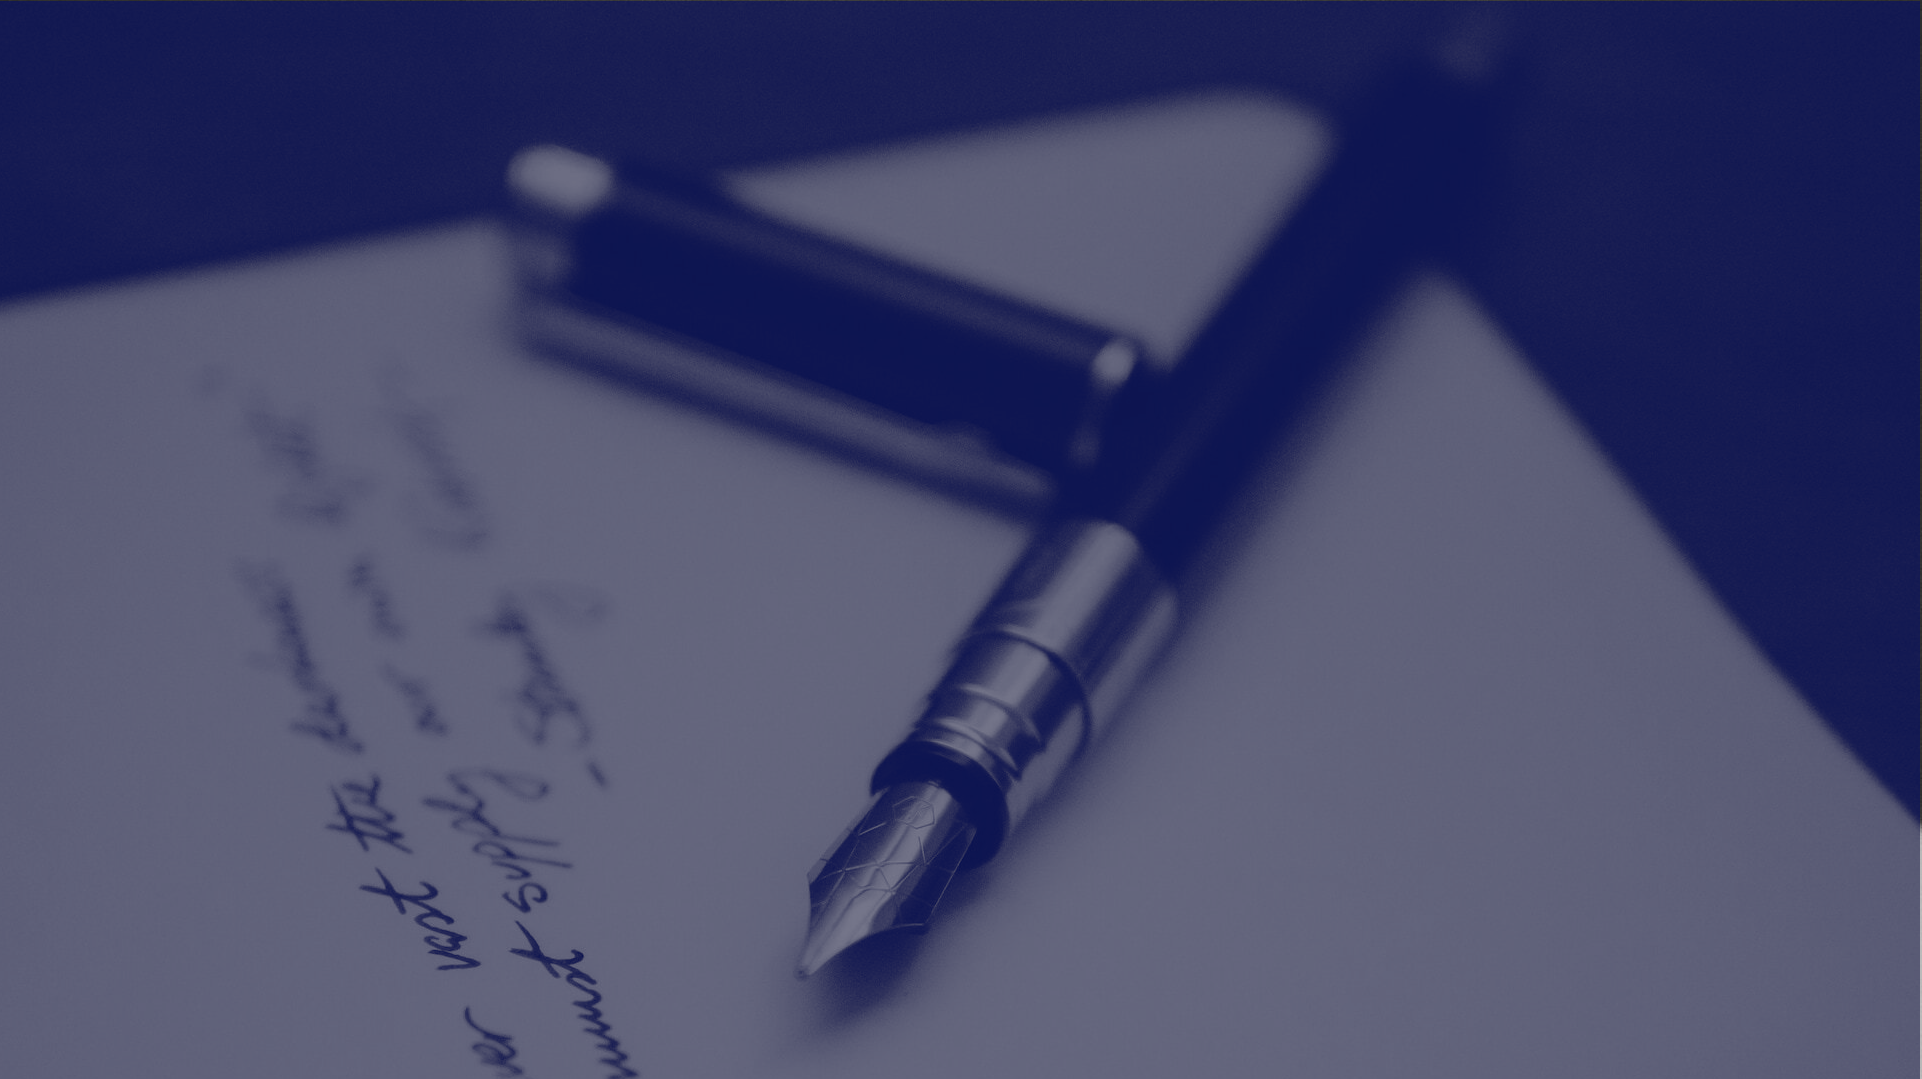
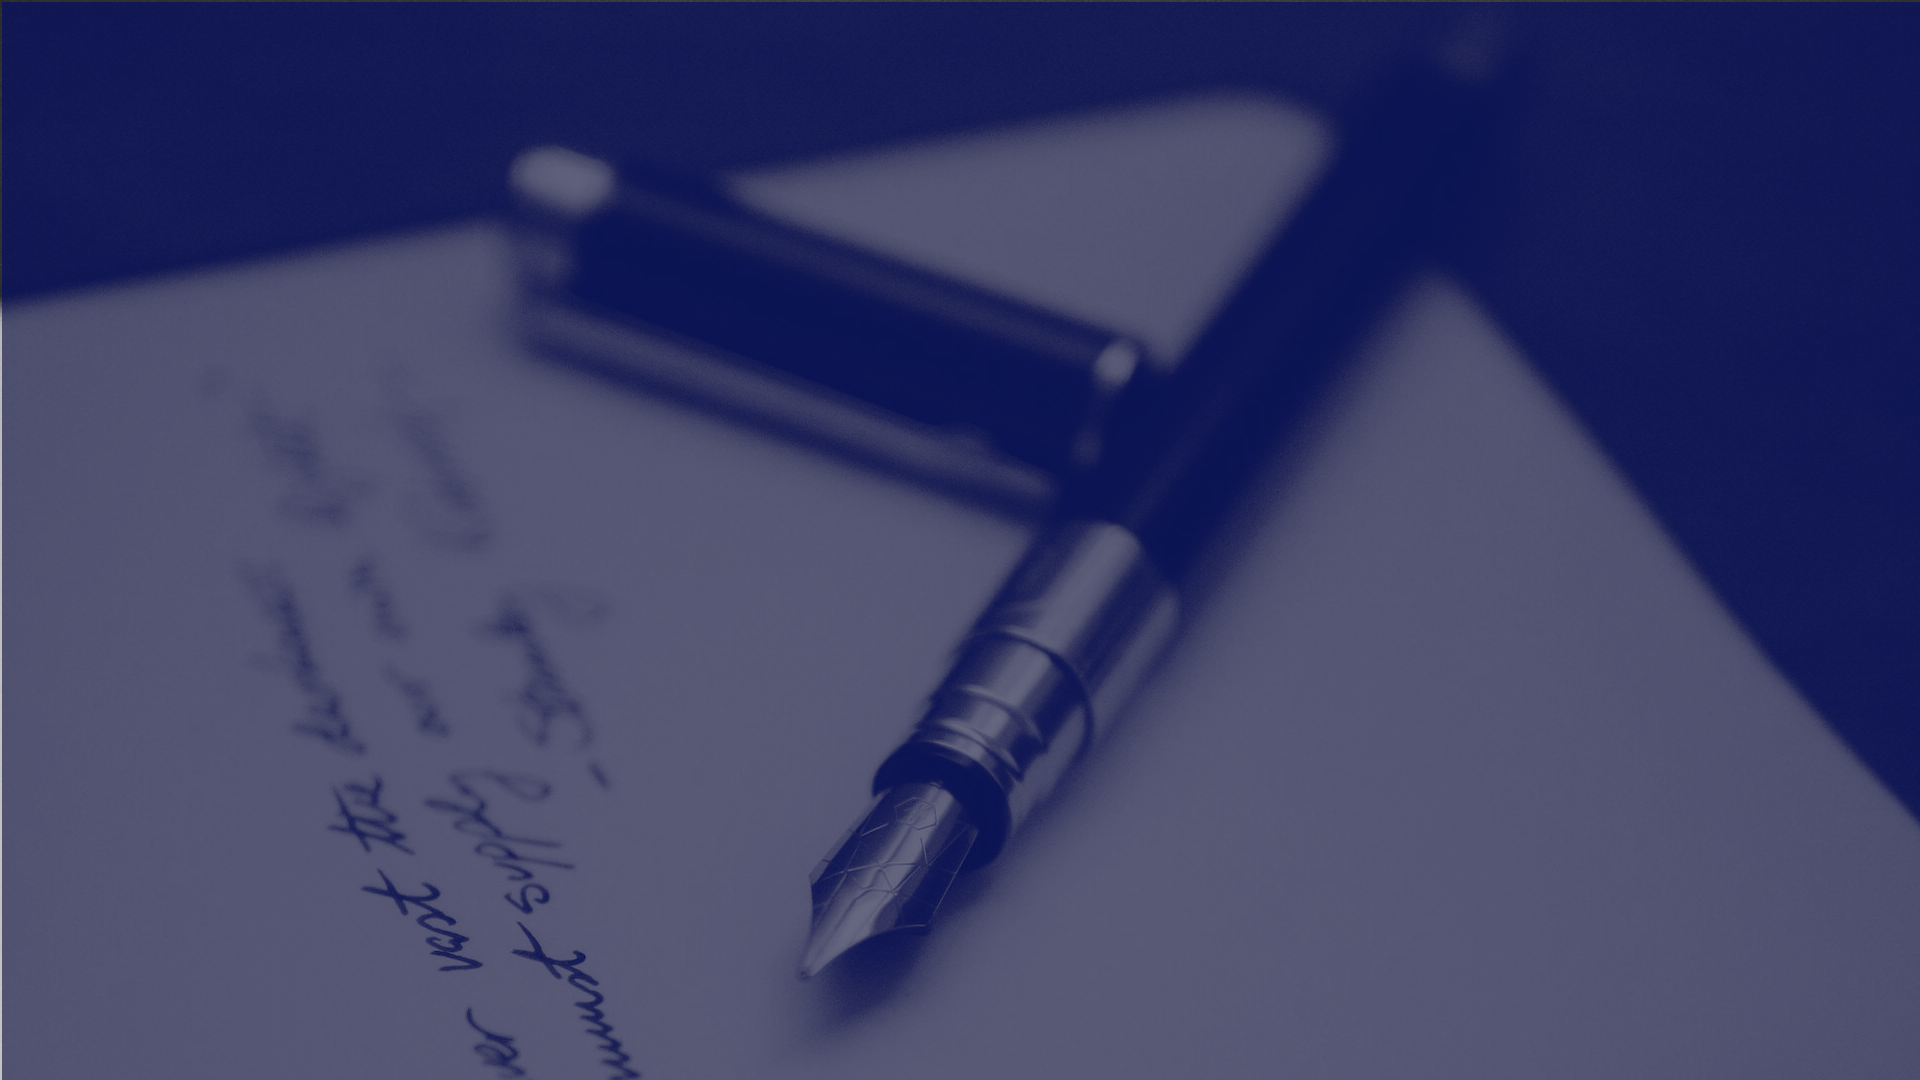
* Refactored colored-hero images into library theme. * Used new themes with ImageHeading and OG Tip Images. * Added new tip of the week, with themed image.

Changed region(s): [[0.4375, 0.7646, 0.4688, 0.8258], [0.4688, 0.734, 0.5, 0.7646], [0.2812, 0.8869, 0.3125, 0.9175]]

diff --git a/astro/src/lib/hero-image.ts b/astro/src/lib/hero-image.ts
@@ -1,0 +1,92 @@
+/**
+ * Hero Theming Functions.
+ */
+
+import { getImage } from "astro:assets";
+import type { GetImageResult } from "astro";
+
+// TODO: Figure out how to dynamic import these from the paths
+import balloonsImage from "../images/colored-hero/balloons.png";
+import blogImage from "../images/colored-hero/pen-paper.png";
+import handsImage from "../images/colored-hero/hands-together.png";
+import notesImage from "../images/colored-hero/post-it-notes.png";
+import policyImage from "../images/colored-hero/policy.png";
+import teamImage from "../images/colored-hero/team.png";
+
+export enum HeroTheme {
+  blog = "blog",
+  hands = "hands",
+  notes = "notes",
+  party = "party",
+  policy = "policy",
+  team = "team",
+};
+
+export type HeroThemeMapping<T> = {
+  [h in HeroTheme]: T;
+}
+type HeroThemeFunction<T> = (label: HeroTheme) => T;
+
+const heroImagePaths: HeroThemeMapping<string> = {
+  blog: "./src/images/colored-hero/pen-paper.png",
+  hands: "./src/images/colored-hero/hands-together.png",
+  notes: "./src/images/colored-hero/post-it-notes.png",
+  party: "./src/images/colored-hero/balloons.png",
+  policy: "./src/images/colored-hero/policy.png",
+  team: "./src/images/colored-hero/team.png",
+}
+const heroImages: HeroThemeMapping<ImageMetadata> = {
+  blog: blogImage,
+  hands: handsImage,
+  notes: notesImage,
+  party: balloonsImage,
+  policy: policyImage,
+  team: teamImage,
+}
+const heroBackgroundCss: HeroThemeMapping<object> = {
+  blog: {
+    height: "12rem",
+    "background-position": "center bottom",
+    "background-size": "cover",
+  },
+  hands: {
+    'height': '10rem',
+    'background-position': 'left center',
+  },
+  party: {
+    height: "12rem",
+    "background-position": "center 60%",
+    "background-size": "cover",
+  },
+  policy: {
+    height: "8.5rem",
+    "background-position": "center 60%",
+    "background-size": "cover",
+  },
+  team: {
+    height: "9rem",
+    "background-position": "center 30%",
+    "background-size": "cover",
+  },
+  notes: {
+    height: "10rem",
+    "background-position": "center 45%",
+    "background-size": "cover",
+  },
+}
+
+export const getHeroThemeImagePath: HeroThemeFunction<string> = (label: HeroTheme) => {
+  return heroImagePaths[label];
+}
+
+export const getHeroThemeImage: HeroThemeFunction<Promise<GetImageResult>> = async (label: HeroTheme) => {
+  return await getImage({ src: heroImages[label], format: "avif" });
+}
+
+export const getHeroThemeCssRules: HeroThemeFunction<Promise<object>> = async (label: HeroTheme) => {
+  const bgImage: GetImageResult = await getHeroThemeImage(label);
+  return {
+    background: `no-repeat url(${bgImage.src})`,
+    ...heroBackgroundCss[label],
+  };
+}

diff --git a/astro/src/pages/images/og/tips/[...id].ts b/astro/src/pages/images/og/tips/[...id].ts
@@ -1,9 +1,15 @@
-import { getCollection } from "astro:content";
+import { getCollection, type CollectionEntry } from "astro:content";
 import { OGImageRoute } from "astro-og-canvas";
 
-const collectionEntries = await getCollection("atotw");
+import { getHeroThemeImagePath } from "@lib/hero-image";
 
-const pages = Object.fromEntries(
+const collectionEntries: Array<CollectionEntry<"atotw">> = await getCollection("atotw");
+
+type TipMapping = {
+  [s: string]: CollectionEntry<"atotw">["data"],
+}
+
+const pages: TipMapping = Object.fromEntries(
   collectionEntries.map(({ slug, data }) => [slug, data]),
 );
 
@@ -32,7 +38,7 @@ export const { getStaticPaths, GET } = OGImageRoute({
       size: [72],
     },
     bgImage: {
-      path: "./src/images/colored-hero/post-it-notes.png",
+      path: getHeroThemeImagePath(page.theme),
       fit: "fill",
       position: ["center", "start"],
     },

diff --git a/astro/src/content/config.ts b/astro/src/content/config.ts
@@ -1,4 +1,6 @@
 import { defineCollection, reference, z } from "astro:content";
+import { HeroTheme } from "@lib/hero-image";
+
 
 const atotw = defineCollection({
   type: "content",
@@ -9,6 +11,7 @@ const atotw = defineCollection({
     who: z.string(),
     benefits: z.string(),
     tags: z.array(z.string()),
+    theme: z.nativeEnum(HeroTheme).optional().default(HeroTheme.notes),
   }),
 });
 
